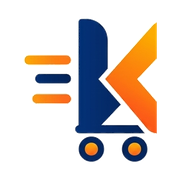
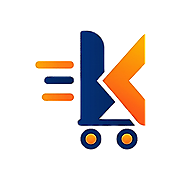
Icônes régénérées depuis une base 512px nette (sans double agrandissement) + manifest.json pour un raccourci d'écran d'accueil net

Changed region(s): [[0.1111, 0.0833, 0.8889, 0.9167]]

diff --git a/app/layout.tsx b/app/layout.tsx
@@ -5,10 +5,13 @@ export const metadata: Metadata = {
   title: "Kpata — Tout ce dont vous avez besoin, au même endroit.",
   description:
     "Kpata est la destination shopping en ligne des Béninois : des milliers de produits, livrés partout au Bénin.",
+  manifest: "/manifest.json",
+  themeColor: "#003B7A",
   icons: {
     icon: [
       { url: "/icon-32.png", sizes: "32x32", type: "image/png" },
       { url: "/icon-192.png", sizes: "192x192", type: "image/png" },
+      { url: "/icon-512.png", sizes: "512x512", type: "image/png" },
     ],
     apple: "/apple-touch-icon.png",
   },
